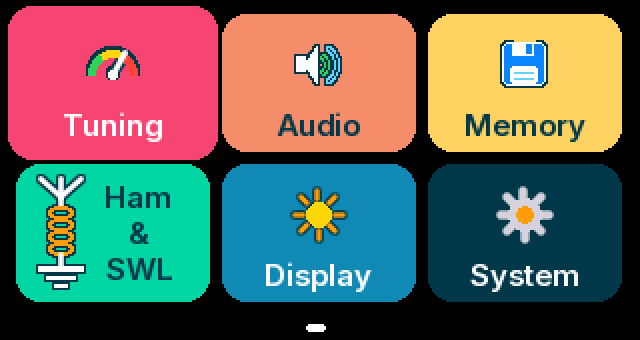
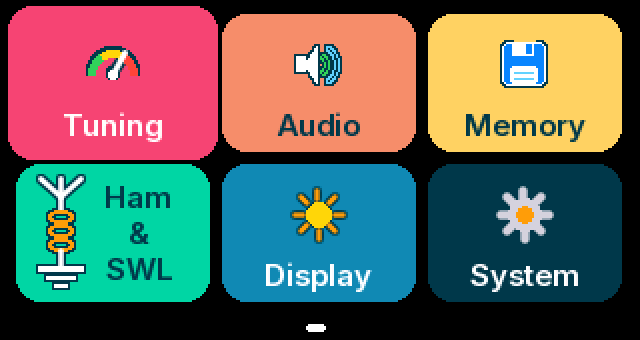
Ham & SWL tile: the coil has three turns

Changed region(s): [[0.0625, 0.5882, 0.125, 0.7647]]

diff --git a/ats-mini/TileDraw.h b/ats-mini/TileDraw.h
@@ -188,12 +188,12 @@ static void tileDrawIcon(S &s, TileIcon icon, int x, int y, uint16_t c, uint16_t
       s.drawWideLine(x - 13, y + 10, x + 13, y + 10, 1.0f, c);
       break;
     case TI_HAM:         // A station as a circuit diagram draws it: aerial, coil, earth. As tall as the tile: it stands at the tile's side
-      s.drawWideLine(x, y - 27, x, y - 13, 1.3f, c);
+      s.drawWideLine(x, y - 27, x, y - 11, 1.3f, c);
       s.drawWideLine(x, y - 18, x - 10, y - 27, 1.3f, c);
       s.drawWideLine(x, y - 18, x + 10, y - 27, 1.3f, c);
-      for(int k = 0 ; k < 4 ; k++)             // The turns of the coil, seen a little from above
-        s.drawEllipseArc(x, y - 10 + k * 6, 6, 5, 3, 2, 0, 360, c);
-      s.drawWideLine(x, y + 11, x, y + 17, 1.3f, c);
+      for(int k = 0 ; k < 3 ; k++)             // The turns of the coil, seen a little from above
+        s.drawEllipseArc(x, y - 8 + k * 7, 6, 5, 3, 2, 0, 360, c);
+      s.drawWideLine(x, y + 9, x, y + 17, 1.3f, c);
       s.fillRect(x - 11, y + 17, 23, 3, c);
       s.fillRect(x - 7, y + 22, 15, 2, c);
       s.fillRect(x - 3, y + 26, 7, 2, c);
@@ -603,12 +603,12 @@ static void tileDrawIconColor(S &s, TileIcon icon, int x, int y, uint16_t bg)
       s.drawWideLine(x - 13, y + 10, x + 13, y + 10, 1.0f, TC_W);
       break;
     case TI_HAM:         // Aerial, coil and earth: white wire, orange coil
-      s.drawWideLine(x, y - 27, x, y - 13, 1.3f, TC_W);
+      s.drawWideLine(x, y - 27, x, y - 11, 1.3f, TC_W);
       s.drawWideLine(x, y - 18, x - 10, y - 27, 1.3f, TC_W);
       s.drawWideLine(x, y - 18, x + 10, y - 27, 1.3f, TC_W);
-      for(int k = 0 ; k < 4 ; k++)             // The turns of the coil, seen a little from above
-        s.drawEllipseArc(x, y - 10 + k * 6, 6, 5, 3, 2, 0, 360, TC_O);
-      s.drawWideLine(x, y + 11, x, y + 17, 1.3f, TC_W);
+      for(int k = 0 ; k < 3 ; k++)             // The turns of the coil, seen a little from above
+        s.drawEllipseArc(x, y - 8 + k * 7, 6, 5, 3, 2, 0, 360, TC_O);
+      s.drawWideLine(x, y + 9, x, y + 17, 1.3f, TC_W);
       s.fillRect(x - 11, y + 17, 23, 3, TC_W);
       s.fillRect(x - 7, y + 22, 15, 2, TC_W);
       s.fillRect(x - 3, y + 26, 7, 2, TC_W);
